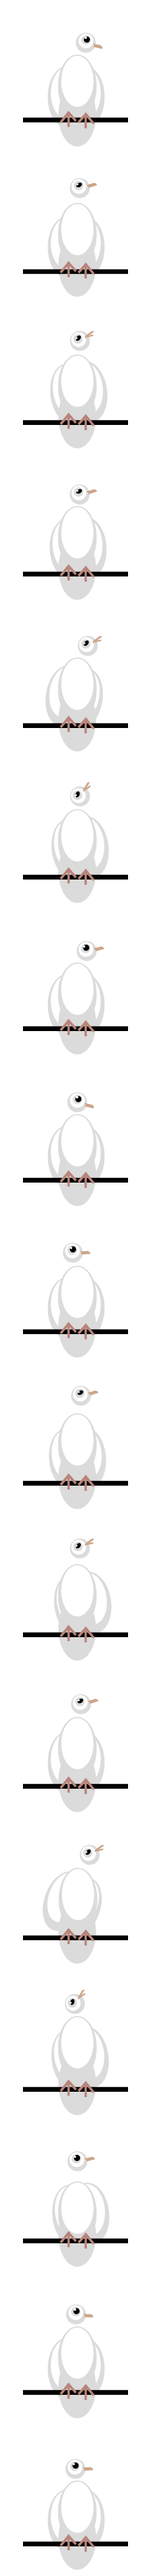
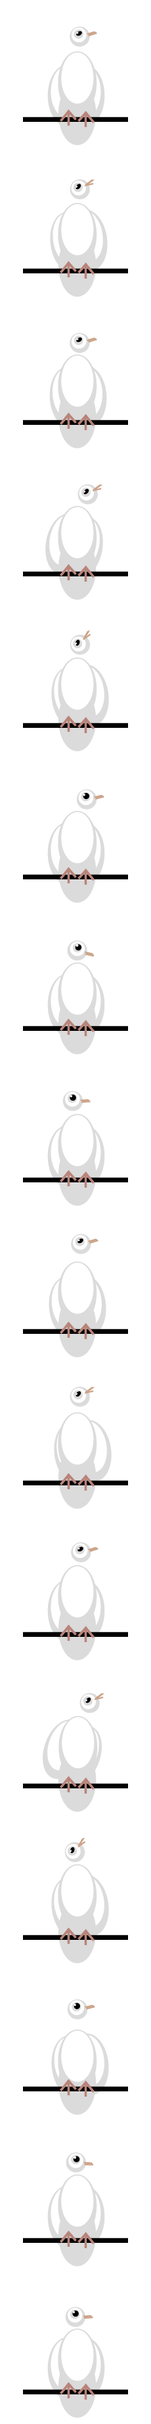
added second bird, made js placeBirds function

Changed region(s): [[0.1522, 0.0, 0.8522, 1.0]]

diff --git a/js/main.js b/js/main.js
@@ -3,8 +3,27 @@
 	const dropArea = document.querySelector('#dropZoneContainer'),
 				birdImages = document.querySelectorAll('.birdIcon div'),
 				dropZones = document.querySelectorAll('.dropZone'),
-				birds = document.querySelector('.birdIcon');
+				birds = document.querySelectorAll('.birdImage');
 	
+	
+	
+	
+	
+	
+	// functions
+
+	function placeBirds() {
+		const birdName = ["dawn", "billy"];
+		
+		// set backgrounds for birds
+		birdName.forEach((name, index) => {
+			birdImages[index].style.background = `transparent center/cover url(images/${name}Dance.png`;
+			
+		});		
+
+
+	}
+	placeBirds();
 
     function allowDrag(event) {
 		console.log('started dragging a bird');
@@ -16,7 +35,7 @@
 		dragImage.src = `images/${birdName}Drag.png`; 
 		event.dataTransfer.setDragImage(dragImage, 80, 80);
 
-		//this.src = `images/${this.id}Drag.png`; // useful but not what i wanted
+		
 		
 		
 	}
@@ -37,18 +56,22 @@
 
 		// go and get the dragged element's ID from the data transfer
 		let currentBird = event.dataTransfer.getData("text/plain");
-
-		// create the audio tag and add src
-		let audio = document.createElement("audio");
-		event.target.appendChild(audio);
-		
-		audio.src = `audio/${currentBird}.wav`;
-    	audio.play();
-    	// loops the audio
-		audio.loop = true;
 		
 		// add that image to whatever drop zone we're dropping our image on
 		event.target.appendChild(document.querySelector(`#${currentBird}`));
+
+		// create the audio tag and add src
+		let audio = document.createElement("audio");
+		
+		if (event.target.querySelector(`#${currentBird}`).children.length < 1) {
+			event.target.querySelector(`#${currentBird}`).appendChild(audio);
+			audio.src = `audio/${currentBird}.wav`;
+			audio.play();
+			// loops the audio
+			audio.loop = true;
+		}
+		
+		
 		
     }
     

diff --git a/css/main.css b/css/main.css
@@ -69,12 +69,12 @@ header, #environment, #birdContainer {
   
 }
 .dropZone div {
-  background: url(../images/dawnDance.png) no-repeat;
+  
   
  background-size: cover;
  width: 230px;
  height: 230px;
-  animation: danceBig 4s steps(17) infinite;
+  animation: danceBig 4s steps(16) infinite;
   animation-play-state: running; 
 	padding: 0;
 	cursor: default;
@@ -83,7 +83,7 @@ header, #environment, #birdContainer {
 }
 @keyframes danceBig {
 	0%{background-position: 0 0px;}
-	100%{background-position:  0 -3910px;}
+	100%{background-position:  0 -3680px;}
 }
 
 #birdContainer {
@@ -107,14 +107,12 @@ header, #environment, #birdContainer {
 
 
 .birdIcon .birdImage {
-  /*put this next part in js so its dynamic*/
-  background: url(../images/dawnDance.png) no-repeat;
-   /*end js*/
+  
   background-size: cover;
   height: 100px;
   width:100px;
  
-  animation: danceSmall 4s steps(17) infinite;
+  animation: danceSmall 4s steps(16) infinite;
   animation-play-state: paused;
  
 }
@@ -131,7 +129,7 @@ header, #environment, #birdContainer {
 
 @keyframes danceSmall {
 	0%{background-position: 0 0;}
-	100%{background-position: 0 -1700px;}
+	100%{background-position: 0 -1600px;}
 }
 
 .bass {

diff --git a/index.html b/index.html
@@ -58,7 +58,9 @@
       <section class="birdIcon melody"><h2 class="hidden">Bird Icon7</h2></section>
       <section class="birdIcon melody"><h2 class="hidden">Bird Icon8</h2></section>
       <section class="birdIcon melody"><h2 class="hidden">Bird Icon9</h2></section>
-      <section class="birdIcon synth"><h2 class="hidden">Bird Icon10</h2></section>
+      <section class="birdIcon synth">
+        <div class="birdImage" id="billy" draggable="true"></div>
+      </section>
       <section class="birdIcon synth"><h2 class="hidden">Bird Icon11</h2></section>
       <section class="birdIcon synth"><h2 class="hidden">Bird Icon12</h2></section>
     </div>
